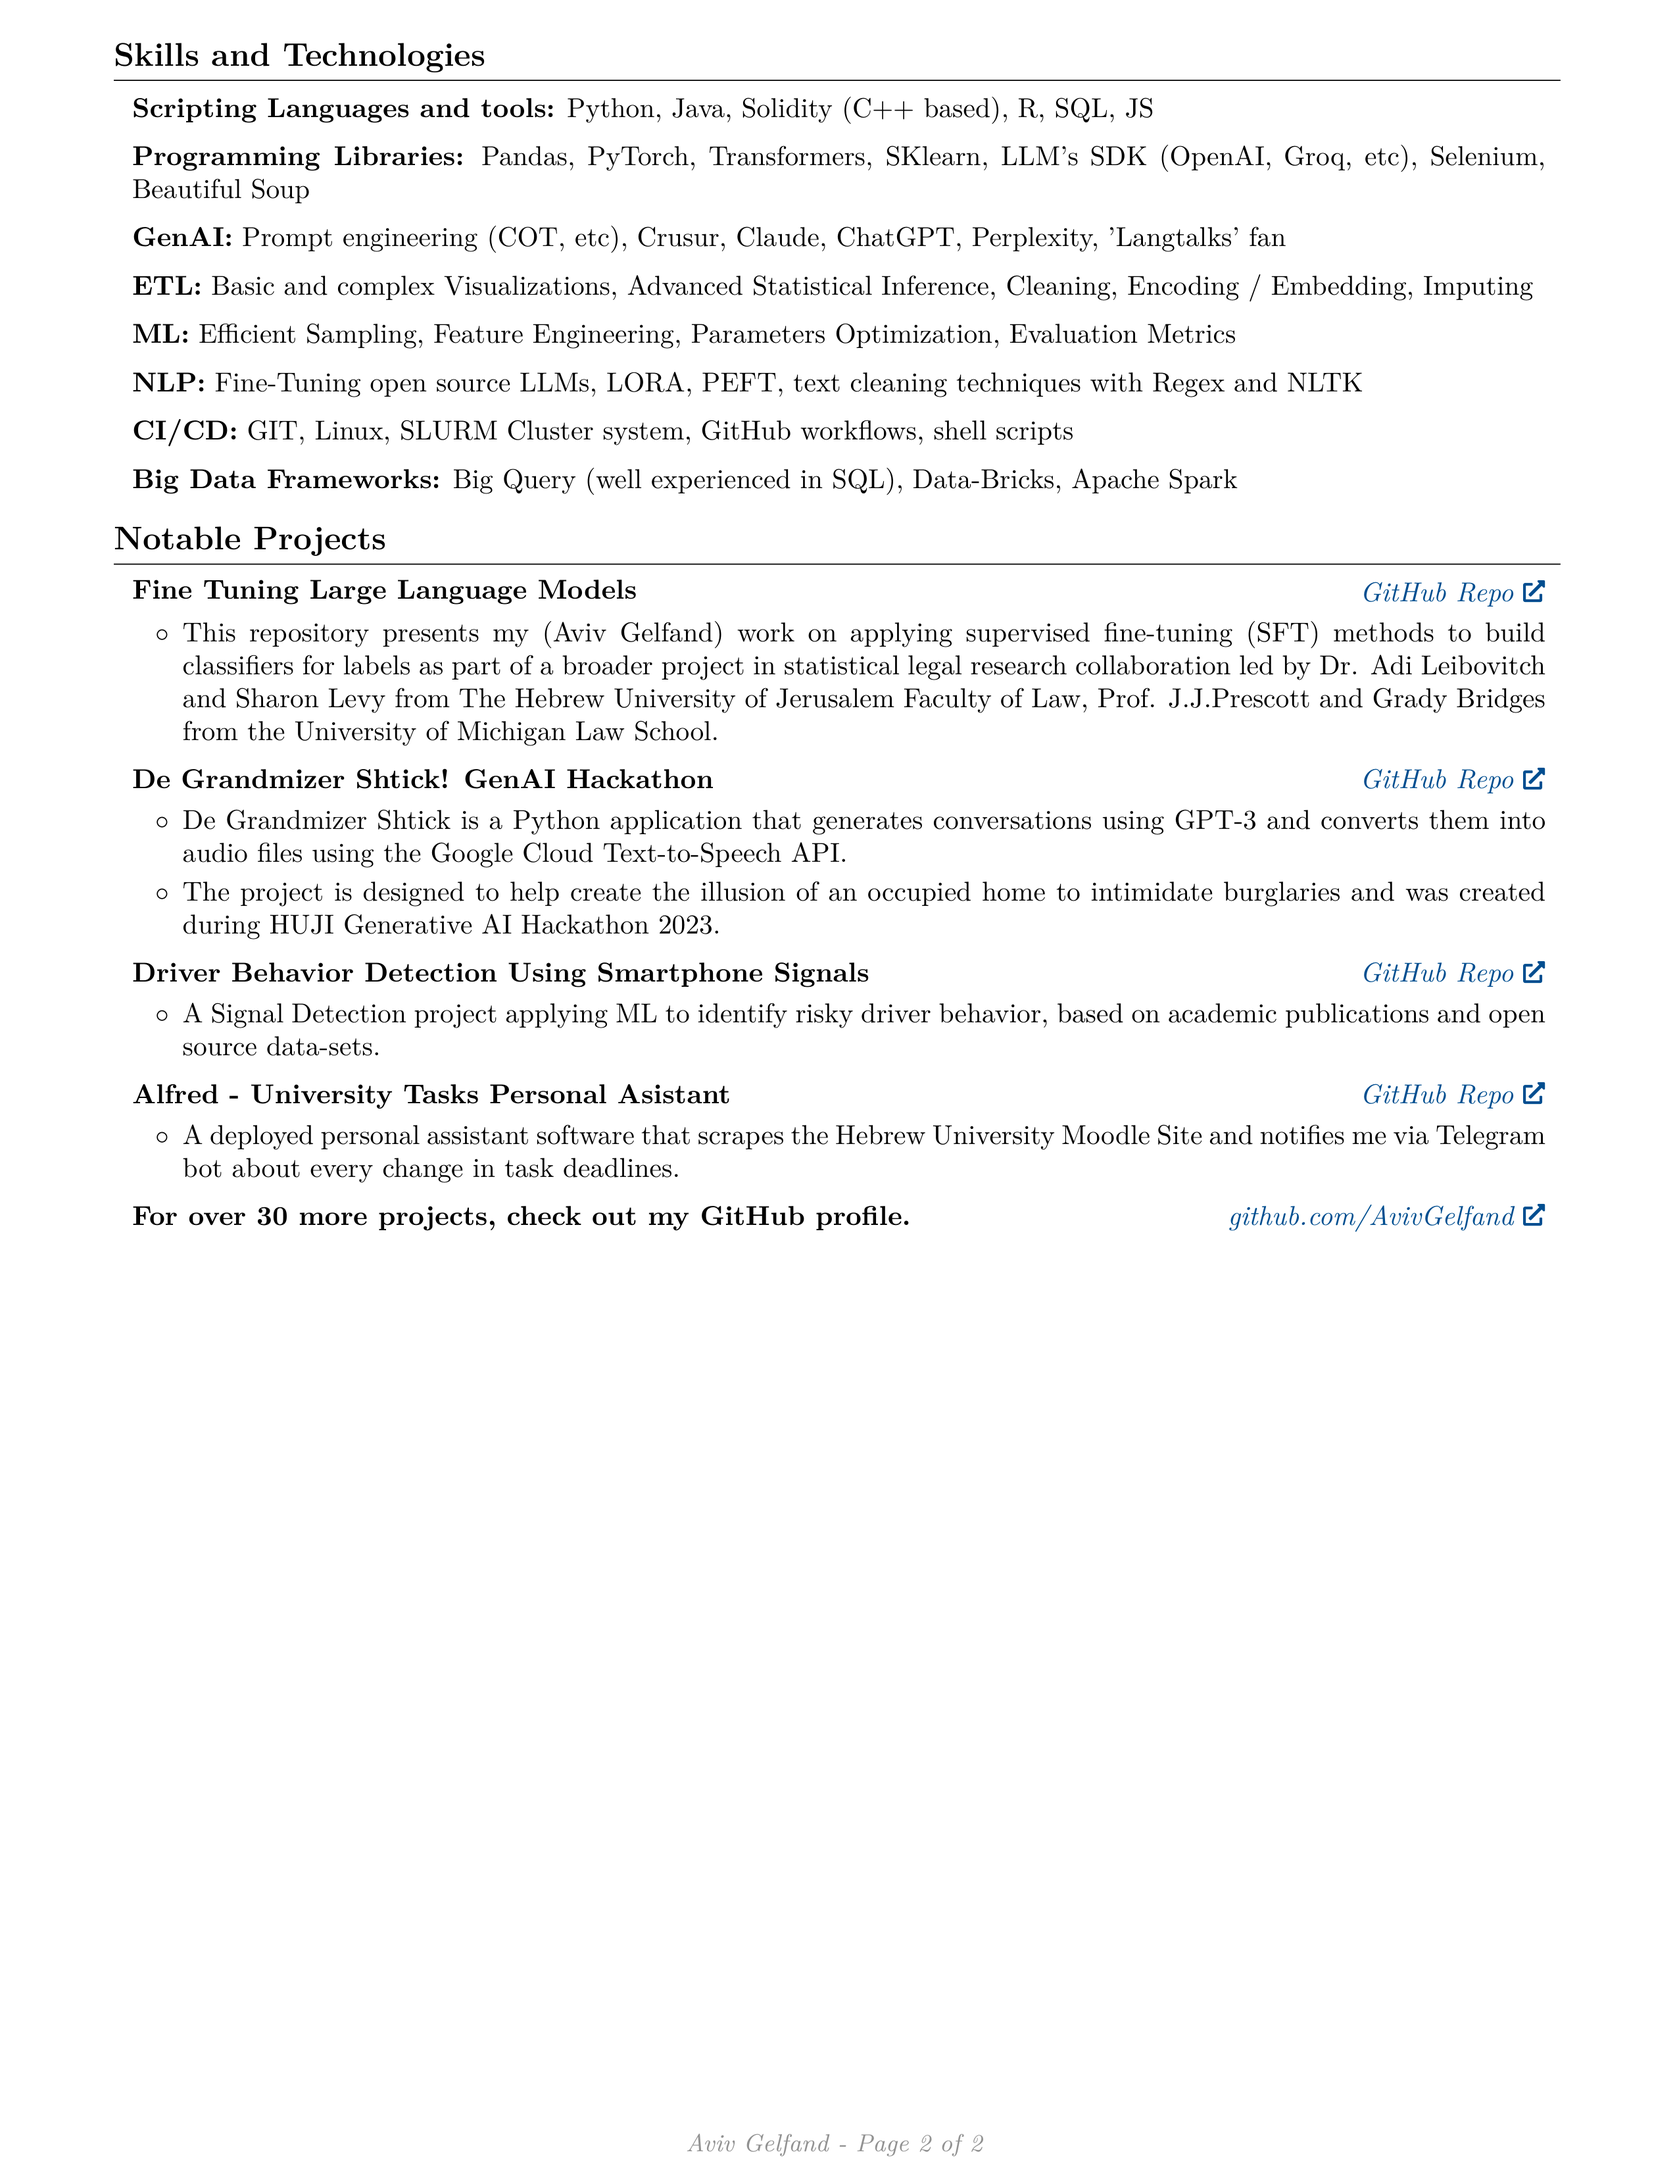
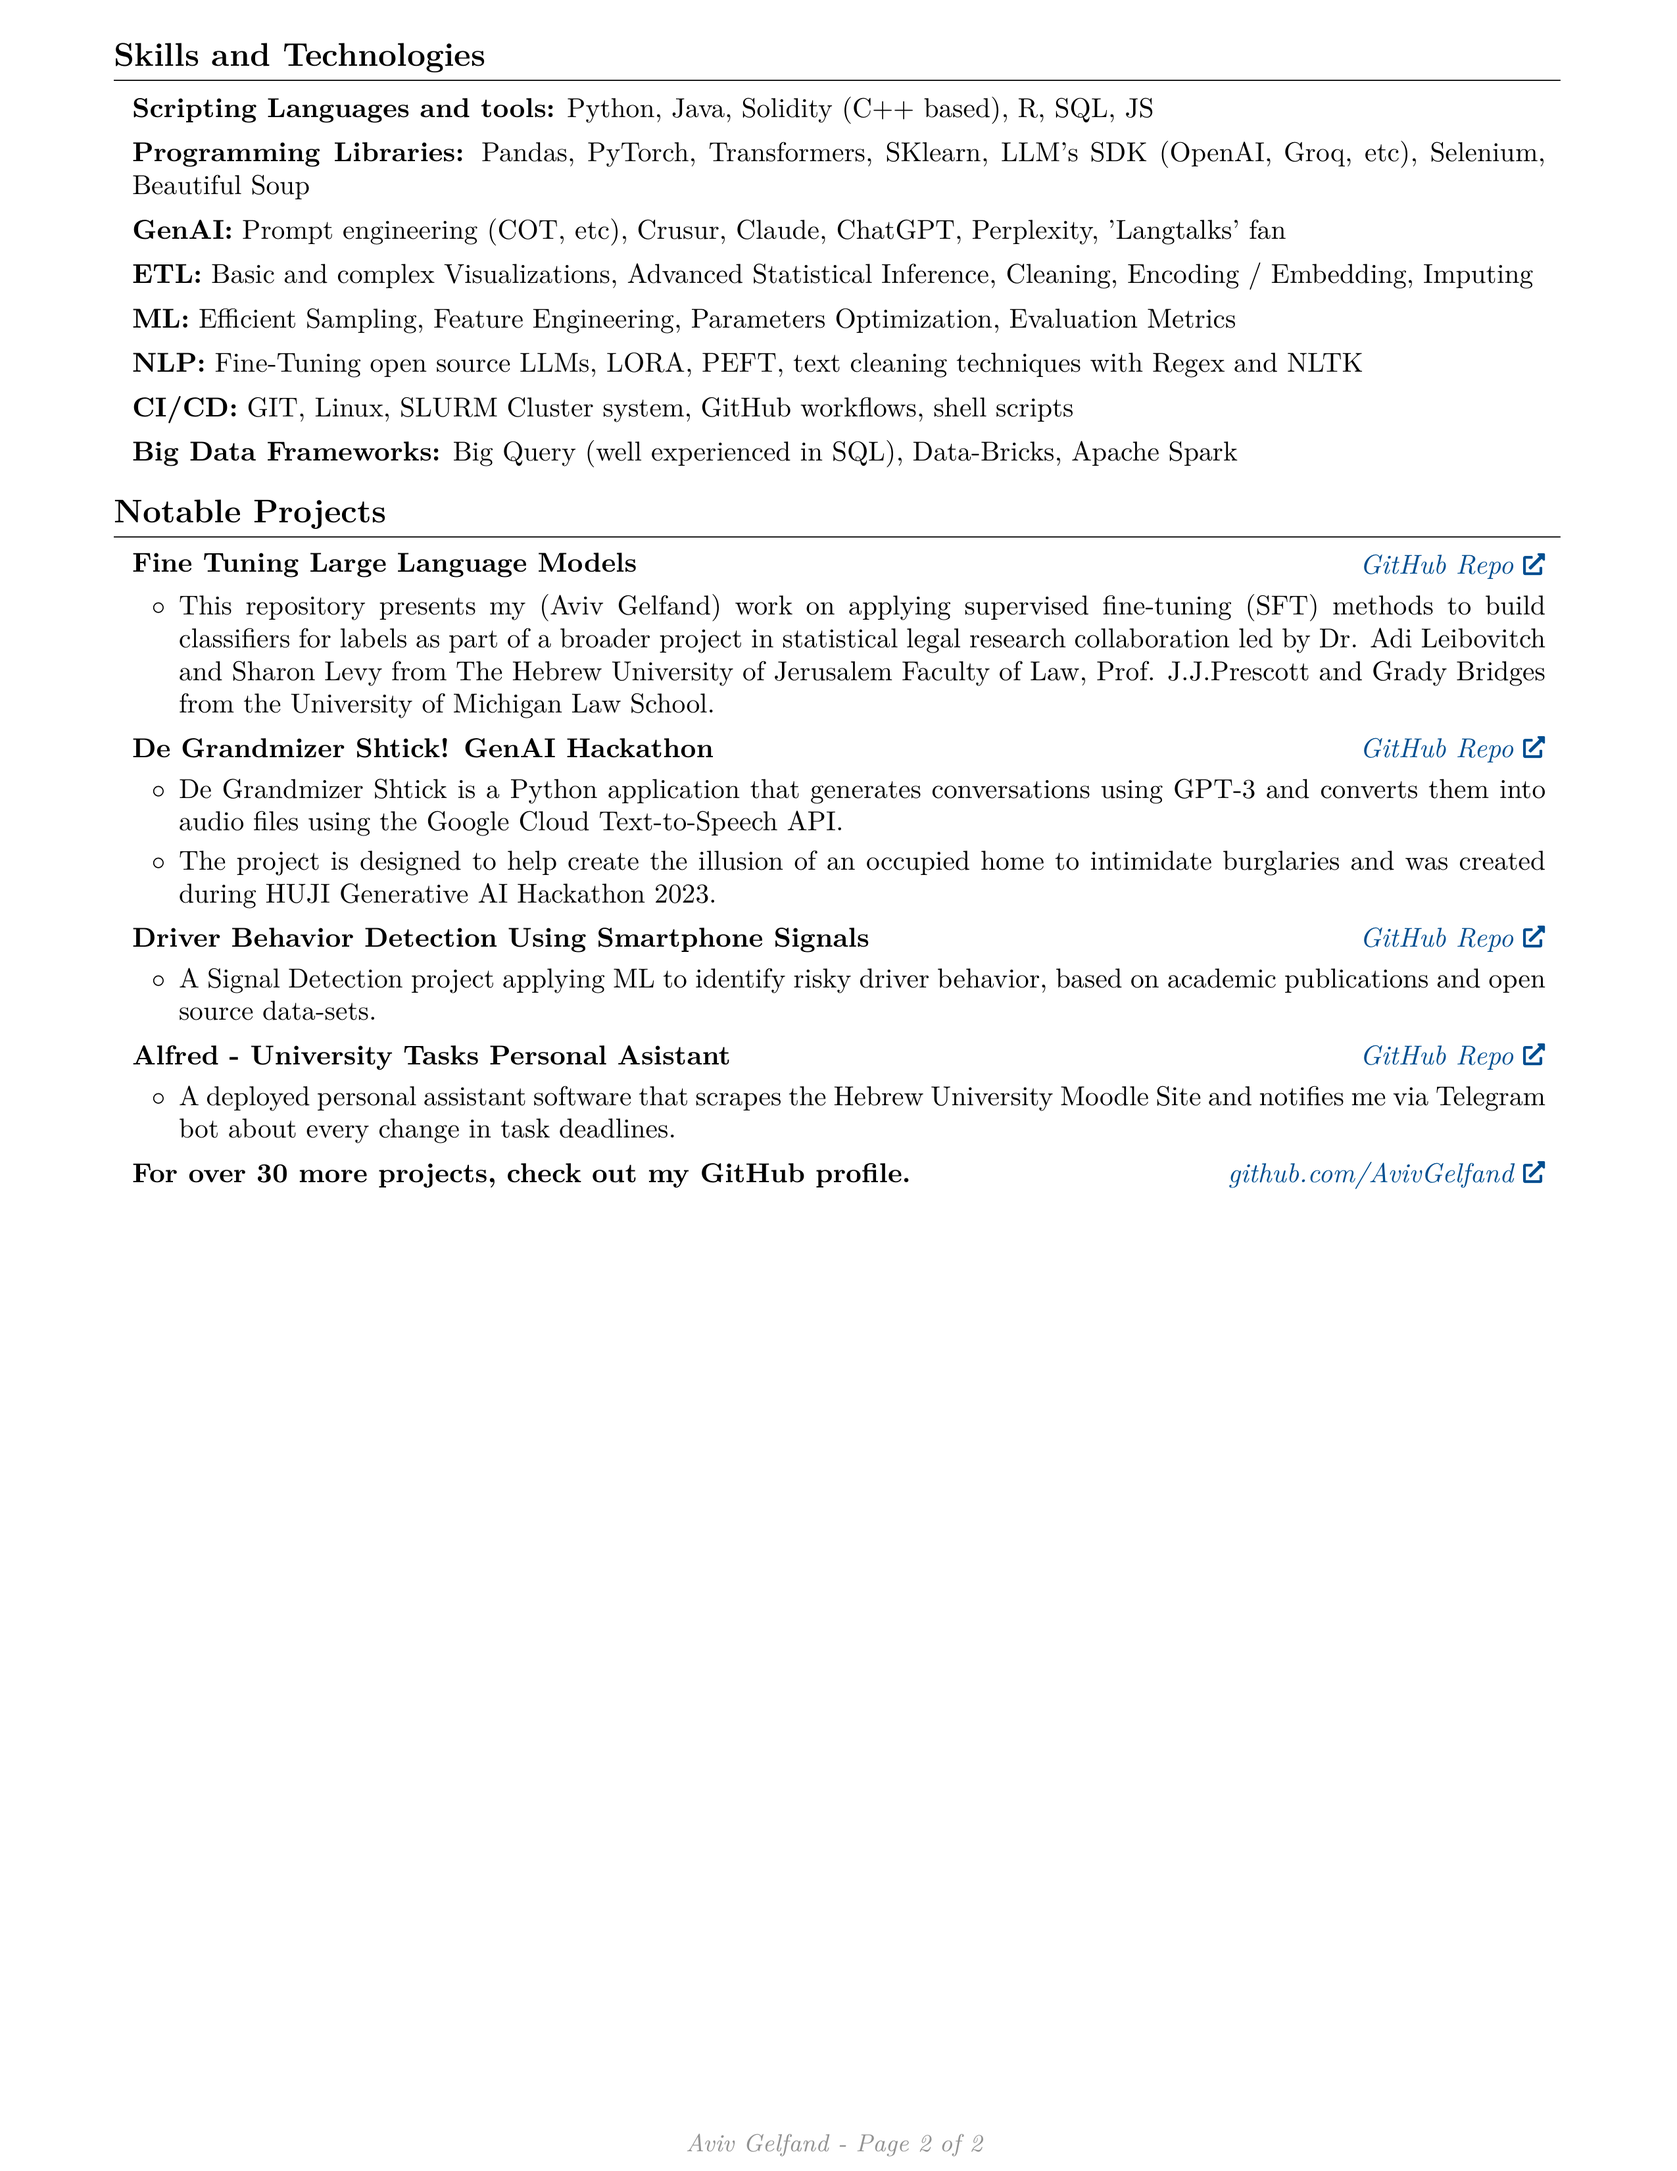
Render the latest CV

diff --git a/Aviv_Gelfand_CV.html b/Aviv_Gelfand_CV.html
@@ -47,7 +47,7 @@
         <li>Demonstrated success in AI and software development through academic/private projects and roles, with a track record of implementing machine learning models to solve complex problems requiring strong collaboration and rapid self-learning skills, consistently delivering efficient and accurate models.</li>
         </ul>
         <h1>Experience</h1>
-        <h2>The Hebrew University of Jerusalem, Prof. Adi Leibovitch's Quantitative Legal Research Lab, NLP Data Scientist / Research Assistant</h2>
+        <h2>Hebrew University of Jerusalem, Dr. Adi Leibovitch's quantitative research lab, NLP Data Scientist / Research Assistant</h2>
         <ul>
         <li>Oct 2023 – May 2024</li>
         <li>Successfully executed a Supervised-Fine-Tuning training of large language models to classify defendant arguments in trials for a broader statistical legal research project; reduced labeling time and errors, replacing manual tagging with LLM-based tagging.</li>
@@ -63,7 +63,7 @@
         <li>Instructed data analysts through their first steps in statistical inference and classic machine learning$:$ linear and logistic regressions, ensemble learners such as random forests &amp; XGBoost, and clustering methods.</li>
         <li>Advanced from teaching assistant to instructor, then to a partner role. 3 successful semesters of weekly TA sessions with a significant presence of students.</li>
         </ul>
-        <h2>The Hebrew University of Jerusalem, Renana Peres' Computational lab, Research &amp; Development Assistant</h2>
+        <h2>Hebrew University of Jerusalem, Renana Peres's Computational Social Science lab, Research &amp; Development Assistant</h2>
         <ul>
         <li>Apr 2022 – Mar 2023</li>
         <li>Self-taught and programmed smart contracts with a C++-based programming language; developed simulations interface using react.js.</li>

diff --git a/Aviv_Gelfand_CV.tex b/Aviv_Gelfand_CV.tex
@@ -81,7 +81,7 @@
         parsep=0.08 cm,
         partopsep=0pt,
         itemsep=0pt,
-        leftmargin=0.3 cm + 10pt
+        leftmargin=0.25 cm + 10pt
     ]
 }{
     \end{itemize}
@@ -208,7 +208,7 @@
         \textit{Oct 2023 – May 2024}}
             \textbf{NLP Data Scientist / Research Assistant}
             
-            \textit{The Hebrew University of Jerusalem, Prof. Adi Leibovitch's Quantitative Legal Research Lab}
+            \textit{Hebrew University of Jerusalem, Dr. Adi Leibovitch's quantitative research lab}
         \end{twocolentry}
 
         \vspace{0.1 cm}
@@ -223,7 +223,7 @@
         \end{onecolentry}
 
 
-        \vspace{0.2 cm}
+        \vspace{0.15 cm}
 
         \begin{twocolentry}{
             
@@ -244,7 +244,7 @@
         \end{onecolentry}
 
 
-        \vspace{0.2 cm}
+        \vspace{0.15 cm}
 
         \begin{twocolentry}{
             
@@ -252,7 +252,7 @@
         \textit{Apr 2022 – Mar 2023}}
             \textbf{Research \& Development Assistant}
             
-            \textit{The Hebrew University of Jerusalem, Renana Peres' Computational lab}
+            \textit{Hebrew University of Jerusalem, Renana Peres's Computational Social Science lab}
         \end{twocolentry}
 
         \vspace{0.1 cm}
@@ -264,7 +264,7 @@
         \end{onecolentry}
 
 
-        \vspace{0.2 cm}
+        \vspace{0.15 cm}
 
         \begin{twocolentry}{
             
@@ -302,7 +302,7 @@
 
 
 
-        \vspace{0.2 cm}
+        \vspace{0.15 cm}
 
         \begin{twocolentry}{
             
@@ -326,43 +326,43 @@
             \textbf{Scripting Languages and tools:} Python, Java, Solidity (C++ based), R, SQL, JS
         \end{onecolentry}
 
-        \vspace{0.2 cm}
+        \vspace{0.15 cm}
 
         \begin{onecolentry}
             \textbf{Programming Libraries:} Pandas, PyTorch, Transformers, SKlearn, LLM's SDK (OpenAI, Groq, etc), Selenium, Beautiful Soup
         \end{onecolentry}
 
-        \vspace{0.2 cm}
+        \vspace{0.15 cm}
 
         \begin{onecolentry}
             \textbf{GenAI:} Prompt engineering (COT, etc), Crusur, Claude, ChatGPT, Perplexity, 'Langtalks' fan
         \end{onecolentry}
 
-        \vspace{0.2 cm}
+        \vspace{0.15 cm}
 
         \begin{onecolentry}
             \textbf{ETL:} Basic and complex Visualizations, Advanced Statistical Inference, Cleaning, Encoding / Embedding, Imputing
         \end{onecolentry}
 
-        \vspace{0.2 cm}
+        \vspace{0.15 cm}
 
         \begin{onecolentry}
             \textbf{ML:} Efficient Sampling, Feature Engineering, Parameters Optimization, Evaluation Metrics
         \end{onecolentry}
 
-        \vspace{0.2 cm}
+        \vspace{0.15 cm}
 
         \begin{onecolentry}
             \textbf{NLP:} Fine-Tuning open source LLMs, LORA, PEFT, text cleaning techniques with Regex and NLTK
         \end{onecolentry}
 
-        \vspace{0.2 cm}
+        \vspace{0.15 cm}
 
         \begin{onecolentry}
             \textbf{CI/CD:} GIT, Linux, SLURM Cluster system, GitHub workflows, shell scripts
         \end{onecolentry}
 
-        \vspace{0.2 cm}
+        \vspace{0.15 cm}
 
         \begin{onecolentry}
             \textbf{Big Data Frameworks:} Big Query (well experienced in SQL), Data-Bricks, Apache Spark
@@ -390,7 +390,7 @@
         \end{onecolentry}
 
 
-        \vspace{0.2 cm}
+        \vspace{0.15 cm}
 
         \begin{twocolentry}{
             
@@ -408,7 +408,7 @@
         \end{onecolentry}
 
 
-        \vspace{0.2 cm}
+        \vspace{0.15 cm}
 
         \begin{twocolentry}{
             
@@ -425,7 +425,7 @@
         \end{onecolentry}
 
 
-        \vspace{0.2 cm}
+        \vspace{0.15 cm}
 
         \begin{twocolentry}{
             
@@ -442,7 +442,7 @@
         \end{onecolentry}
 
 
-        \vspace{0.2 cm}
+        \vspace{0.15 cm}
 
         \begin{twocolentry}{
             

diff --git a/README.md b/README.md
@@ -16,7 +16,7 @@
 - Demonstrated success in AI and software development through academic/private projects and roles, with a track record of implementing machine learning models to solve complex problems requiring strong collaboration and rapid self-learning skills, consistently delivering efficient and accurate models.
 # Experience
 
-## The Hebrew University of Jerusalem, Prof. Adi Leibovitch's Quantitative Legal Research Lab, NLP Data Scientist / Research Assistant
+## Hebrew University of Jerusalem, Dr. Adi Leibovitch's quantitative research lab, NLP Data Scientist / Research Assistant
 
 - Oct 2023 – May 2024
 - Successfully executed a Supervised-Fine-Tuning training of large language models to classify defendant arguments in trials for a broader statistical legal research project; reduced labeling time and errors, replacing manual tagging with LLM-based tagging.
@@ -32,7 +32,7 @@
 - Instructed data analysts through their first steps in statistical inference and classic machine learning$:$ linear and logistic regressions, ensemble learners such as random forests & XGBoost, and clustering methods.
 - Advanced from teaching assistant to instructor, then to a partner role. 3 successful semesters of weekly TA sessions with a significant presence of students.
 
-## The Hebrew University of Jerusalem, Renana Peres' Computational lab, Research & Development Assistant
+## Hebrew University of Jerusalem, Renana Peres's Computational Social Science lab, Research & Development Assistant
 
 - Apr 2022 – Mar 2023
 - Self-taught and programmed smart contracts with a C++-based programming language; developed simulations interface using react.js.
